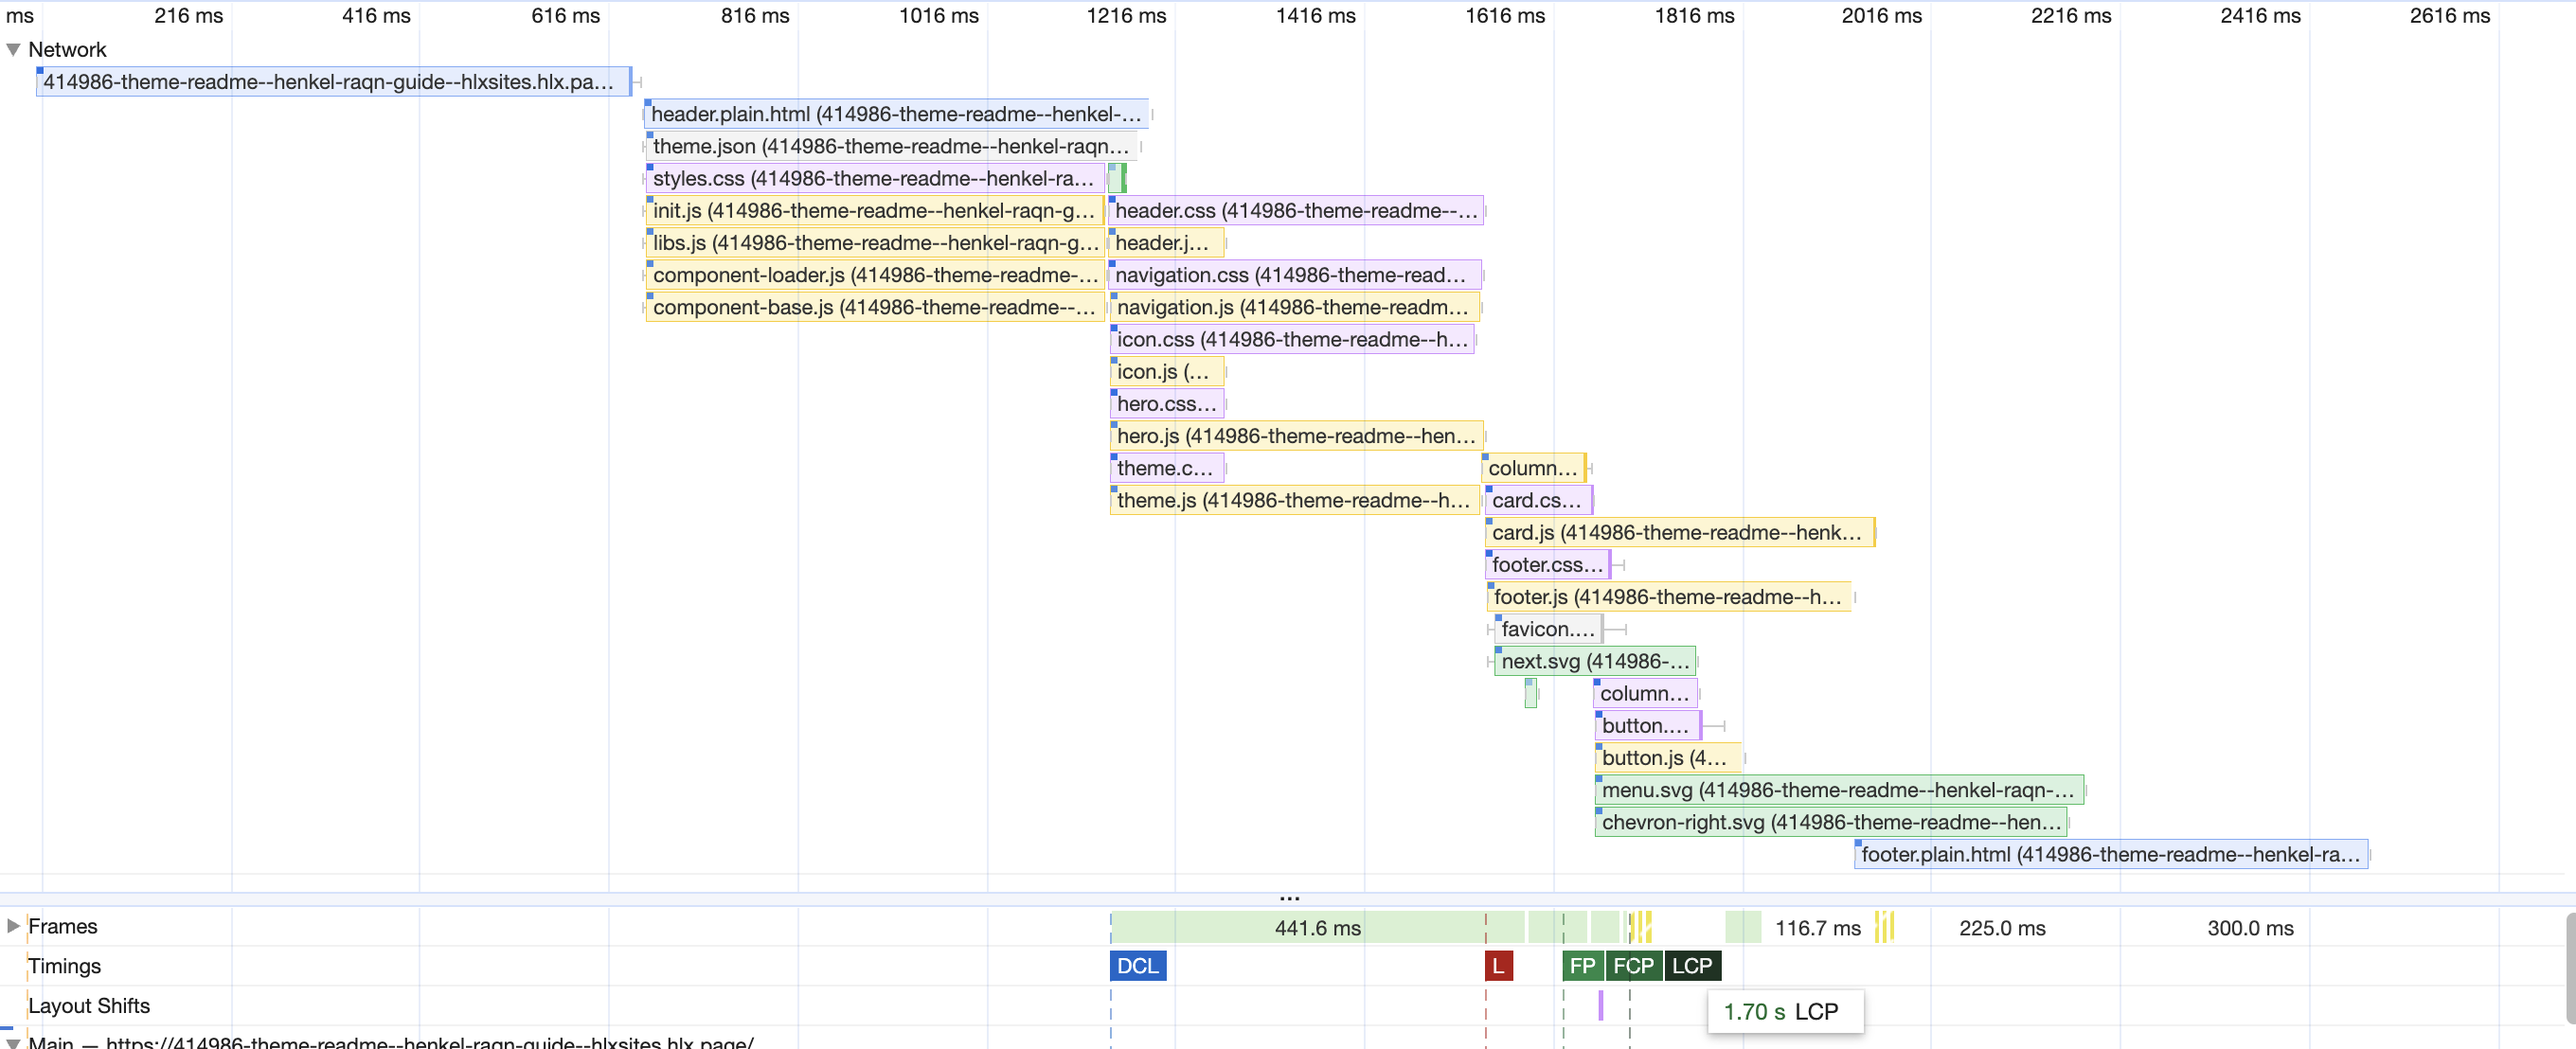
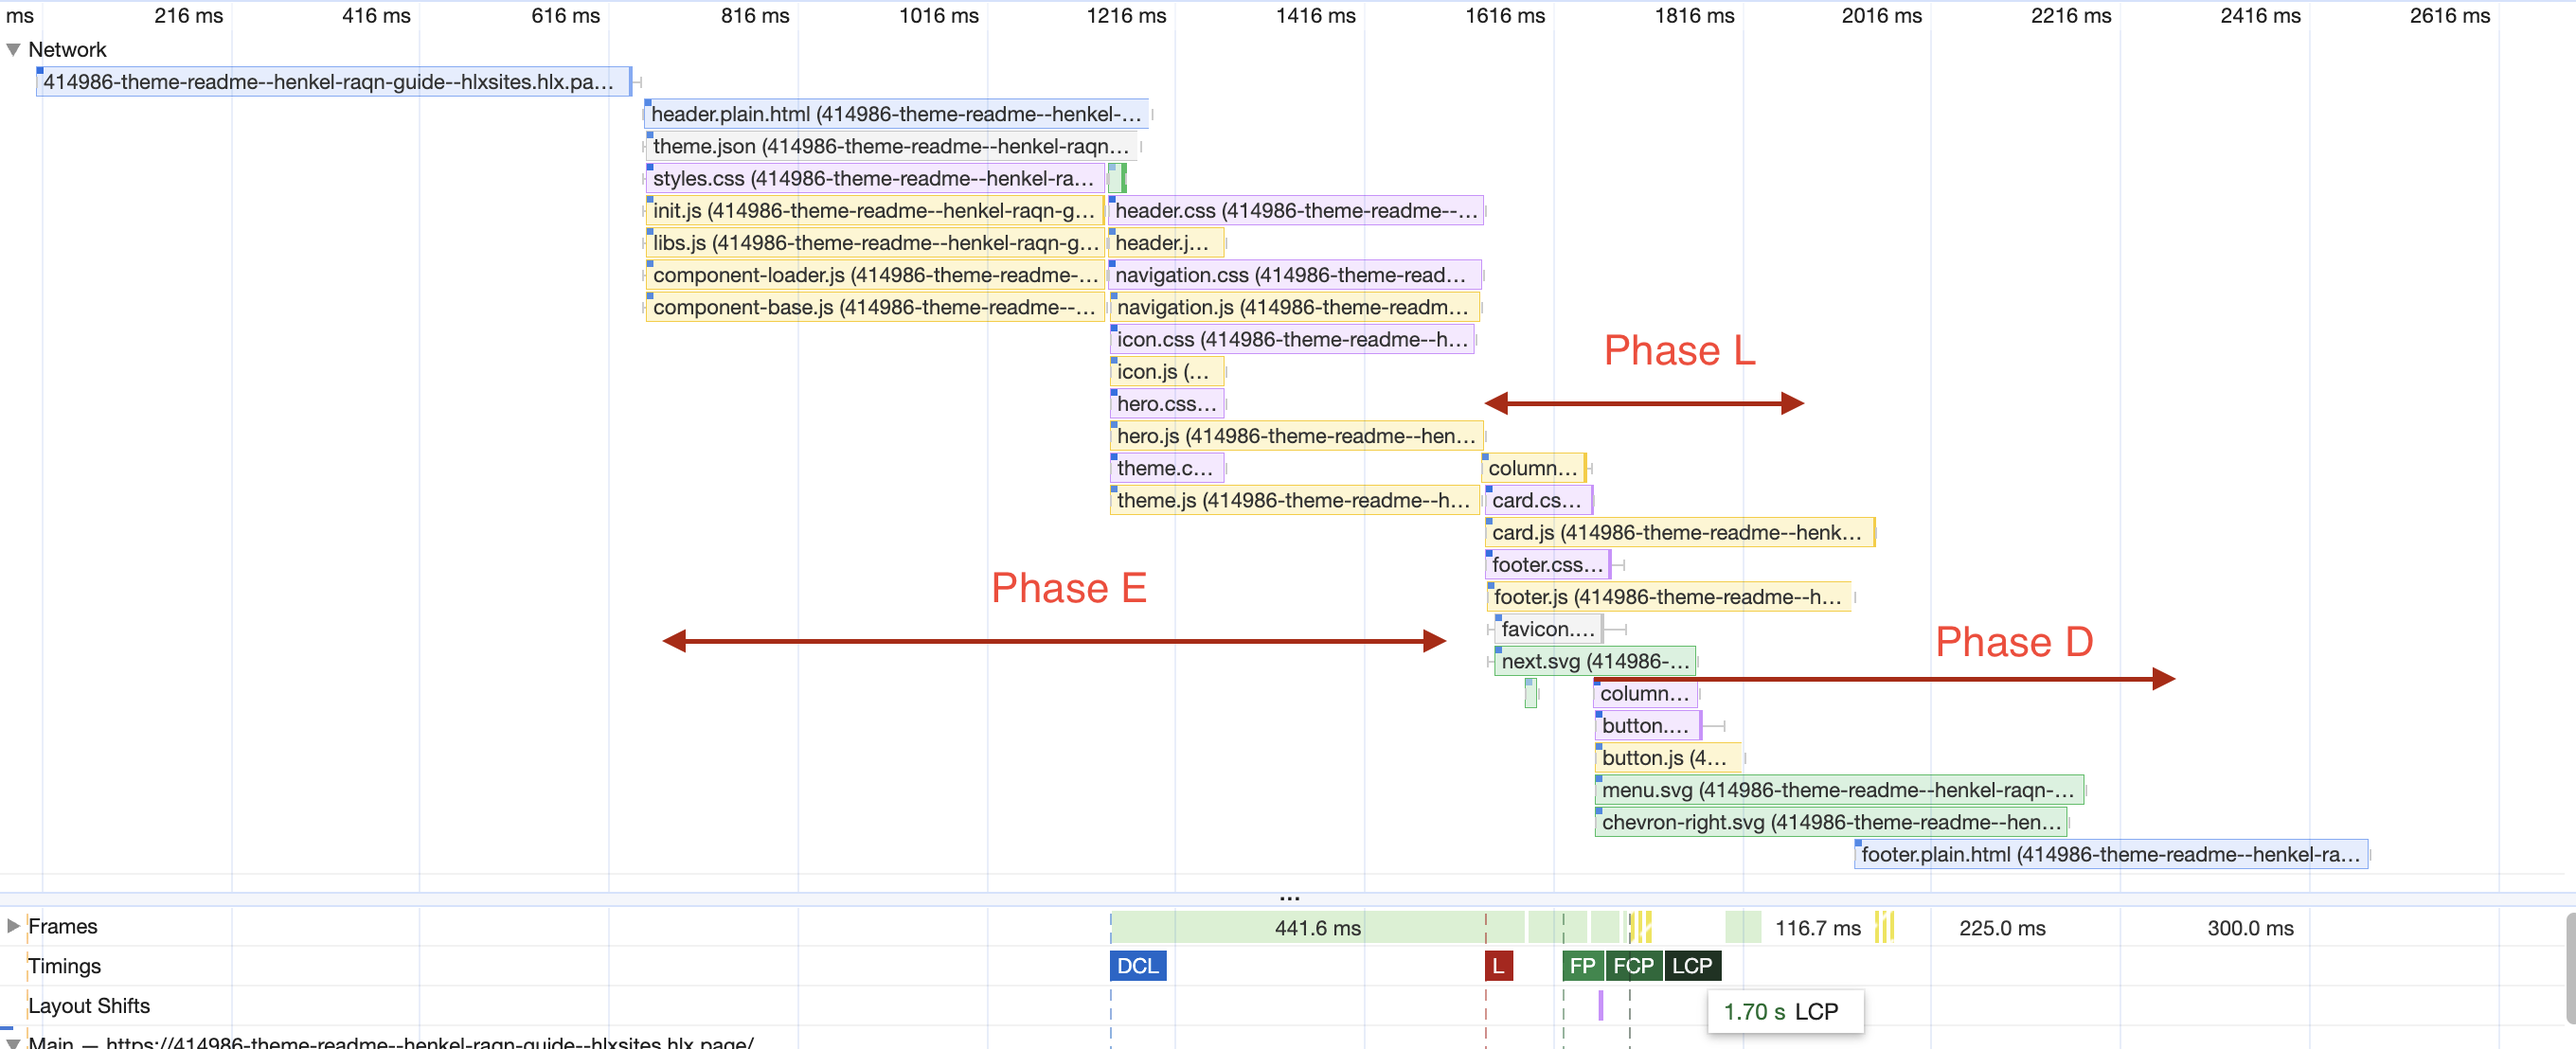
Update

Changed region(s): [[0.25, 0.5523, 0.5625, 0.6137], [0.625, 0.583, 0.8438, 0.6751], [0.5625, 0.3069, 0.7188, 0.3989]]

diff --git a/docs/raqn/perfomance.md b/docs/raqn/perfomance.md
@@ -21,7 +21,7 @@ That actually is a key factor to good LCP and loading.
 And we would call it perfomance __BUDGET__ and queueing should influence that.
 
 
-## Let the load be fluid instead of queue.
+# OOB Implementation Queue.
 
 Base on that premise, we should avoid by default having too much assets and scripts loaded in the main priority
 But at the same time queuing those endups removing the benefits of concurency among other things
@@ -46,24 +46,19 @@ That becames clear when slow network is applyed
 Queuing impact now is quite clear.
 
 
-### Checking concurency and delaying
+## Checking concurency and delaying
 
 So having the same rule of thumb of a perfomance budget for LCP under 100kb, let's check 3 main hipotesis.
 
 1. Concurrency would be better
-2. Solving Load and DOMContentLoaded conflict 
-3. Using concurency freeing the LCP and FCP would improve perfomance
-
-So since the OOB script does already queue we already have that use case covered and mesure as following
-__Regular network__
-![EDS](../assets/franklin-regular-network.png)
-__slow network__
-![Alt text](../assets/franklin-slow3g-network.png)
+2. Solving Load and DOMContentLoaded conflict should be solve
+3. Using concurrency but keeping 3 fases improve perfomance
 
 Other examples on EDS perfonmance can be found [here](../edge/perfomance.md)
 
-## Then lets try the first Hipotecy
+## Concurrency, Load and keeping 3 fases.
 
+We can improve perfomance by concurrency load and keeping the 3 fases 
 Scripts will keep the 3 phases defined in EDGE but with better concurency
 
 Let's see the example
